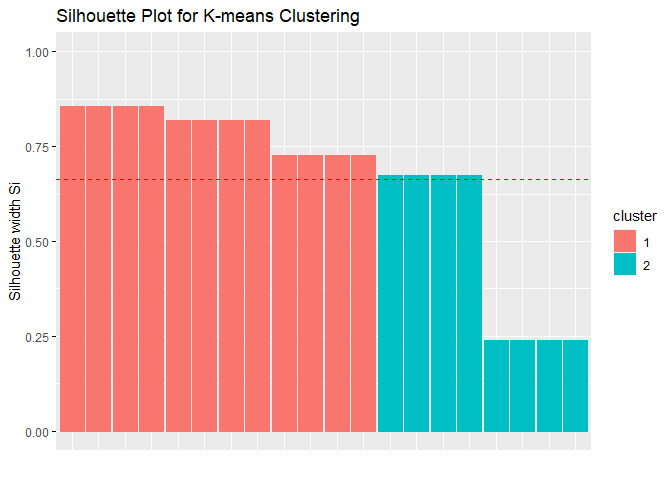
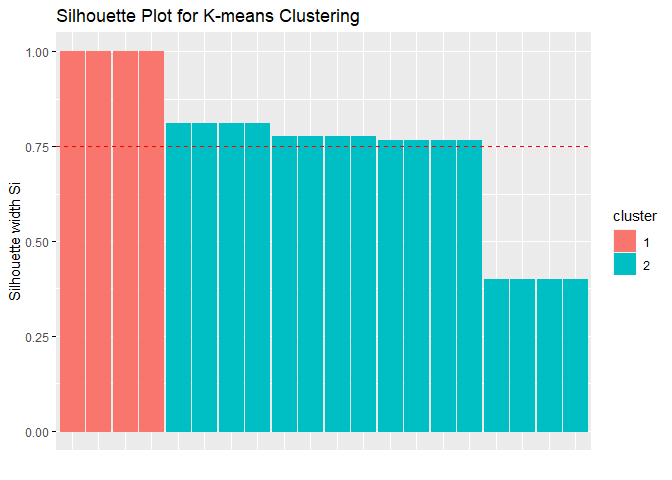
MRA

Changed region(s): [[0.2188, 0.25, 0.7188, 0.9062], [0.7188, 0.5625, 0.875, 0.7188], [0.0625, 0.0938, 0.25, 0.2188]]

diff --git a/MVA_Project1.md b/MVA_Project1.md
@@ -768,8 +768,8 @@ fviz_silhouette(sil, main = "Silhouette Plot for K-means Clustering")
 ```
 
     ##   cluster size ave.sil.width
-    ## 1       1   12          0.80
-    ## 2       2    8          0.46
+    ## 1       1    4          1.00
+    ## 2       2   16          0.69
 
 ![](MVA_Project1_files/figure-gfm/unnamed-chunk-12-3.png)<!-- -->
 
@@ -873,7 +873,7 @@ fa.parallel(data_num[-1])
 
 ![](MVA_Project1_files/figure-gfm/unnamed-chunk-13-1.png)<!-- -->
 
-    ## Parallel analysis suggests that the number of factors =  1  and the number of components =  0
+    ## Parallel analysis suggests that the number of factors =  1  and the number of components =  1
 
 ``` r
 print(factor_model)
@@ -945,3 +945,19 @@ fa.diagram(factor_model)   # Visualize the relationship
 ```
 
 ![](MVA_Project1_files/figure-gfm/unnamed-chunk-13-3.png)<!-- -->
+
+### Assignment 6
+
+### Multiple Regression Analysis
+
+<p>
+Multiple regression analysis is a statistical technique that extends
+simple linear regression by considering the combined effect of two or
+more independent variables on a single dependent variable. It helps us
+understand how these independent variables influence the dependent
+variable, predict the value of the dependent variable based on the
+independent ones, and assess the relative importance of each independent
+variable while accounting for the influence of others. This makes it a
+powerful tool for various fields like business, finance, and social
+science to uncover relationships and make predictions.
+</p>
